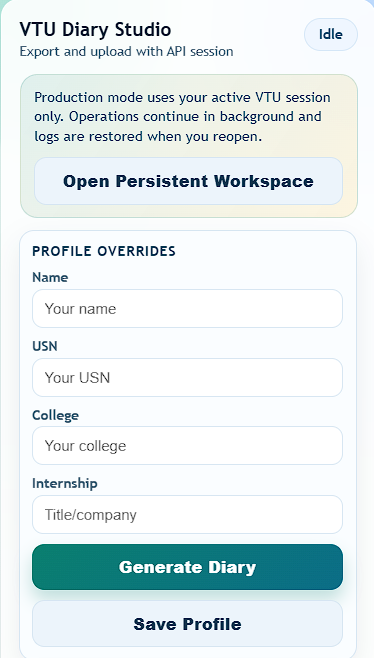
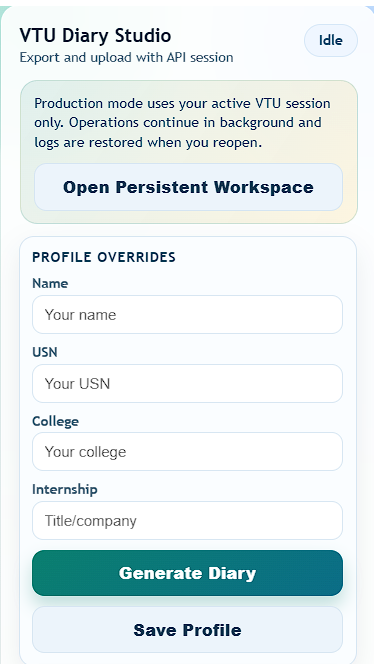
Normalize screenshot ratios and refine side-by-side README layout

diff --git a/README.md b/README.md
@@ -19,8 +19,8 @@ VTU Diary Studio is designed for reliable day-to-day diary operations with minim
 ## Screenshots
 
 <p align="center">
-  <img src="docs/screenshots/dashboard-profile-overrides.png" alt="Dashboard and Profile Overrides" width="48%" height="560" />
-  <img src="docs/screenshots/bulk-upload-live-logs.png" alt="Bulk Upload and Live Logs" width="48%" height="560" />
+  <img src="docs/screenshots/dashboard-profile-overrides.png" alt="Dashboard and Profile Overrides" width="48%" />
+  <img src="docs/screenshots/bulk-upload-live-logs.png" alt="Bulk Upload and Live Logs" width="48%" />
 </p>
 
 ![Generated PDF Export Preview](docs/screenshots/pdf-export-preview.png)
